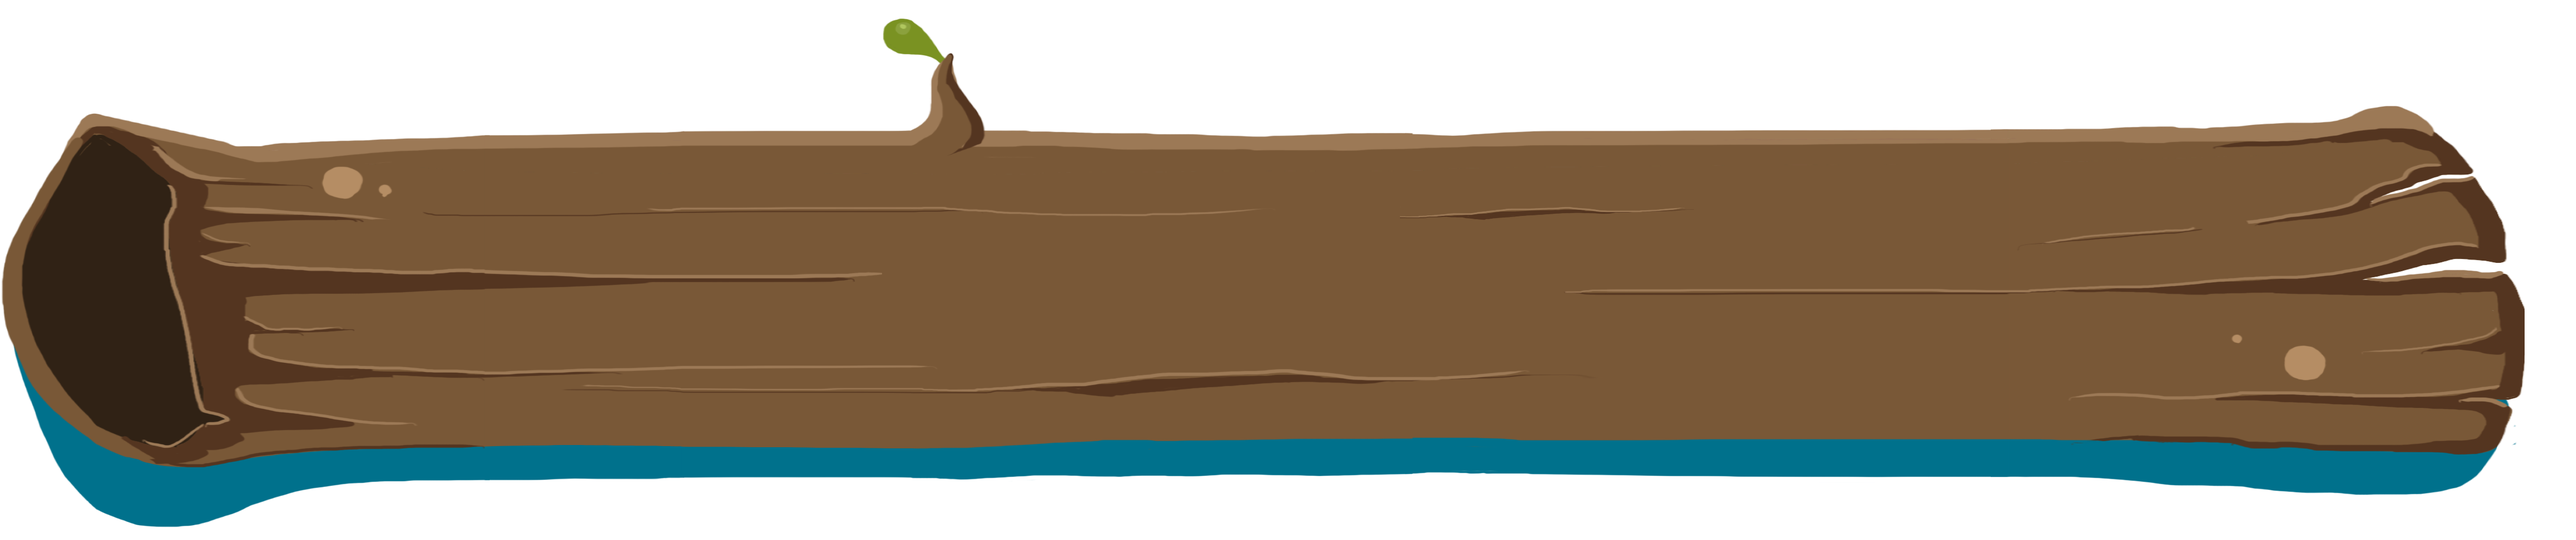
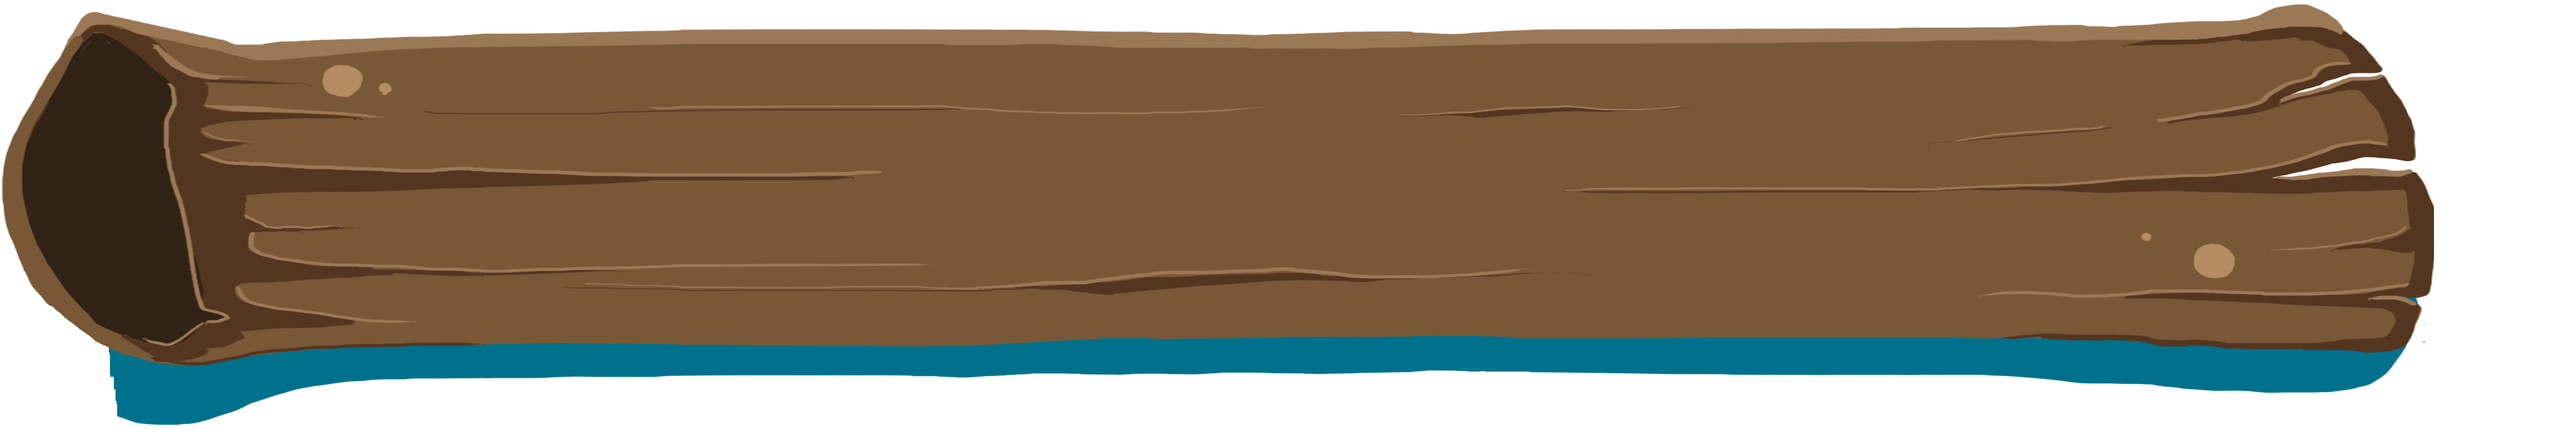
adapted fields to display

diff --git a/codi-lernapp/src/pages/Crossword.vue b/codi-lernapp/src/pages/Crossword.vue
@@ -187,11 +187,21 @@
                            :disabled="disabledB" @focus="currentStep = 7"
                            @input="submitB">
                 </div>
-                <div class="row_4 position3">
+                <div class="position4">
+                    <input id="b10" class="size" alt="Eingabefeld" type="text" maxlength="1"
+                           :disabled="disabledB" @focus="currentStep = 7"
+                           @input="submitB">
+                </div>
+                <div class="position4">
+                    <input id="b11" class="size" alt="Eingabefeld" type="text" maxlength="1"
+                           :disabled="disabledB" @focus="currentStep = 7"
+                           @input="submitB">
+                </div>
+                <div class="row_7a position5">
                     <input id="d1" class="size arrowRight" alt="Eingabefeld" type="text" maxlength="1" placeholder="4"
                            :disabled="disabledD" @focus="currentStep = 9"
                            @input="submitD">
-                    <input id="b10" class="size" alt="Eingabefeld" type="text" maxlength="1"
+                    <input id="b12" class="size" alt="Eingabefeld" type="text" maxlength="1"
                            :disabled="disabledD" @focus="currentStep = 9"
                            @input="submitB">
                     <input id="d3" class="size" alt="Eingabefeld" type="text" maxlength="1"
@@ -200,16 +210,15 @@
                     <input id="d4" class="size" alt="Eingabefeld" type="text" maxlength="1"
                            :disabled="disabledD" @focus="currentStep = 9"
                            @input="submitD">
-                </div>
-                <div class="position4">
-                    <input id="b11" class="size" alt="Eingabefeld" type="text" maxlength="1"
-                           :disabled="disabledB" @focus="currentStep = 7"
-                           @input="submitB">
-                </div>
-                <div class="position4">
-                    <input id="b12" class="size" alt="Eingabefeld" type="text" maxlength="1"
-                           :disabled="disabledB" @focus="currentStep = 7"
-                           @input="submitB">
+                    <input id="d5" class="size" alt="Eingabefeld" type="text" maxlength="1"
+                           :disabled="disabledD" @focus="currentStep = 9"
+                           @input="submitD">
+                    <input id="d6" class="size" alt="Eingabefeld" type="text" maxlength="1"
+                           :disabled="disabledD" @focus="currentStep = 9"
+                           @input="submitD">
+                    <input id="d7" class="size" alt="Eingabefeld" type="text" maxlength="1"
+                           :disabled="disabledD" @focus="currentStep = 9"
+                           @input="submitD">
                 </div>
             </div>
         </div>
@@ -468,7 +477,7 @@
                 }
             },
             submitAll: function () {
-                if(this.submitA && this.submitB() && this.submitC && this.submitD) {
+                if (this.submitA && this.submitB() && this.submitC && this.submitD) {
                     alert("Yeiii")
                     //this.currentStep = 10;
                 }
@@ -588,7 +597,7 @@
             text-align: center;
             font-size: 25px;
             border-radius: 5px;
-            margin: 0.5rem;
+            margin: 0.4rem;
         }
         @media screen and (orientation: portrait) {
             height: 2.5rem;
@@ -604,8 +613,8 @@
         @media screen and (orientation: landscape) {
             background-image: url(../assets/img/Holz_mitSchatten_3.png);
             background-repeat: no-repeat;
-            background-size: 35%;
-            padding: 1.5rem;
+            background-size: 28%;
+            padding: 1.6rem 1.5rem 1.4rem 1.4rem;
         }
         @media screen and (orientation: portrait) {
             background-image: url(../assets/img/Holz_mitSchatten_3p.png);
@@ -615,43 +624,37 @@
         }
     }
 
-    .row_4 {
-        @media screen and (orientation: landscape) {
-            background-image: url(../assets/img/Holz_mitSchatten_4.png);
-            background-repeat: no-repeat;
-            background-size: 55%;
-            padding: 1.5rem;
-        }
-        @media screen and (orientation: portrait) {
-            background-image: url(../assets/img/Holz_mitSchatten_4p.png);
-            background-repeat: no-repeat;
-            background-size: 53%;
-            padding: 1.1rem;
-        }
-    }
-
     .row_7 {
         @media screen and (orientation: landscape) {
             background-image: url(../assets/img/Holz_mitSchatten_7.png);
             background-repeat: no-repeat;
-            background-size: 60%;
-            padding: 1.5rem;
+            background-size: 49%;
+            padding: 0.5rem 0.5rem 1rem 1rem;
         }
         @media screen and (orientation: portrait) {
             background-image: url(../assets/img/Holz_mitSchatten_7.png);
             background-repeat: no-repeat;
             background-size: 65%;
-            padding: 1.2rem 1rem 0.7rem 0.9rem;
+            padding: 0.5rem 0.5rem 1rem 1rem;
         }
 
+    }
+
+    .row_7a {
+        @media screen and (orientation: landscape) {
+            background-image: url(../assets/img/Holz_mitSchatten_7a.png);
+            background-repeat: no-repeat;
+            background-size: 63%;
+            padding: 0.5rem 0.5rem 1rem 1rem;
+        }
     }
 
     .col_12 {
         @media screen and (orientation: landscape) {
             background-image: url(../assets/img/Holz_mitSchatten_up12.png);
             background-repeat: no-repeat;
-            background-size: 17%;
-            padding-bottom: 1rem;
+            background-size: 14%;
+            padding-left: 0.2rem;
         }
         @media screen and (orientation: portrait) {
             background-image: url(../assets/img/Holz_mitSchatten_up12p.png);
@@ -663,7 +666,7 @@
 
     .position1 {
         @media screen and (orientation: landscape) {
-            margin-left: 13.5rem;
+            margin-left: 14rem;
         }
         @media screen and (orientation: portrait) {
             margin-left: 10rem;
@@ -672,8 +675,8 @@
 
     .position2 {
         @media screen and (orientation: landscape) {
-            margin-left: 30rem;
-            margin-top: -2.5rem;
+            margin-left: 29rem;
+            margin-top: -2.1rem;
         }
         @media screen and (orientation: portrait) {
             margin-left: 23.1rem;
@@ -684,8 +687,8 @@
 
     .position3 {
         @media screen and (orientation: landscape) {
-            margin-left: -4.5rem;
-            margin-top: -1.5rem;
+            margin-left: -4.2rem;
+            margin-top: -1.7rem;
             margin-bottom: -1.5rem;
         }
         @media screen and (orientation: portrait) {
@@ -693,6 +696,10 @@
             margin-top: -1.1rem;
             margin-bottom: -1.1rem;
         }
+    }
+
+    .position5 {
+        margin-top: -0.4rem;
     }
 
     .position4 {
@@ -704,7 +711,7 @@
         @media screen and (orientation: landscape) {
             width: 25%;
             height: auto;
-            bottom: 20%;
+            bottom: 10%;
             &.right {
                 right: 0.5rem;
             }
